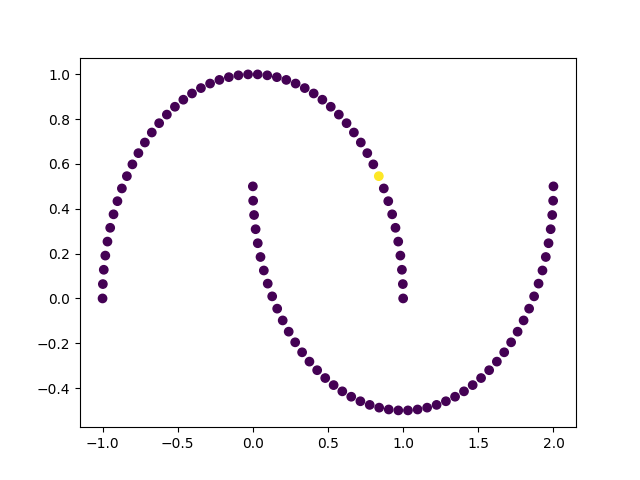
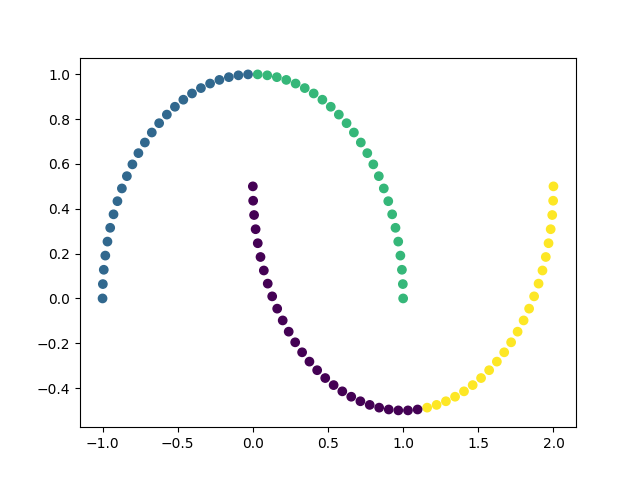
added some stuff

diff --git a/main.py b/main.py
@@ -5,9 +5,9 @@ import numpy as np
 import helper as help
 
 from sklearn.datasets import make_moons
-from sklearn.cluster import KMeans
+from sklearn.cluster import KMeans, SpectralClustering
 
-X, Y = make_moons(n_samples=100, noise=0)
+X, Y = make_moons(n_samples=10, noise=0)
 
 moonsGraph = help.makeMoonsGraph(X)
 L = nx.laplacian_matrix(moonsGraph)
@@ -15,15 +15,12 @@ A = nx.adjacency_matrix(moonsGraph)
 Lnorm = nx.normalized_laplacian_matrix(moonsGraph)
 #matrix.A returns matrix view
 
-print(L.toarray())
-eigW, eigV = np.linalg.eig(L.A)
+#print(L.toarray())
+eigvalues, eigVectors = np.linalg.eig(Lnorm.A)
 
 #help.findBestEigen(eigV, Y, X)
 #print("Largest eigenvalue:", max(e))
 #print("Smallest eigenvalue:", min(e))
-
-print(eigW)
-#print(eigV[0])
 
 new_x = []
 new_y = []
@@ -32,12 +29,51 @@ for r in X:
     new_x.append(r[0])
     new_y.append(r[1])
 
-kmeans = KMeans(n_clusters=2)
-new_data = eigV[1].reshape(-1,1)
+numbers = {
+    "a" : [],
+    "b" : [],
+    "d" : [],
+    "D" : [],
+} 
 
-kmeans.fit(new_data)
-plt.scatter(new_x, new_y, c=kmeans.labels_)
-plt.savefig("moons.png")
+c = 1
+euler = 2
+dt = 0.1
+iterations = 500
+
+def u0(second_eigen, x):
+    
+    mean = 0
+    for i in second_eigen:
+        mean += i
+    mean /= len(second_eigen)
+
+    val = second_eigen[x] - mean
+    if val <= 0:
+        return -1
+    else:
+        return 1
+
+print(eigvalues)
+#init a
+#for i,vector in enumerate(eigVectors): 
+
+
+
+
+#initialize a
+
+
+
+#kmeans = KMeans(n_clusters=2)
+#new_data = eigV[0].reshape(-1,1)
+
+#spec = SpectralClustering(n_clusters=4, affinity='nearest_neighbors')
+
+#kmeans.fit(new_data)
+#spec.fit(X)
+#plt.scatter(new_x, new_y, c=spec.labels_)
+#plt.savefig("moons.png")
 
 #pos=nx.get_node_attributes(moonsGraph,'pos')
 #ax = plt.subplot(121)

diff --git a/helper.py b/helper.py
@@ -17,7 +17,7 @@ def makeMoonsGraph(X):
             dy = node[1] - X[j][1]
             dist = (dx**2 + dy**2)**0.5
             w = 2.781 ** ( ((dist ** 2)) / 2)
-            G.add_edge(i,j,weight = dist)
+            G.add_edge(i,j,weight = w)
     return G
 
 def findBestEigen(eigVecs, Correct_labels, X):
